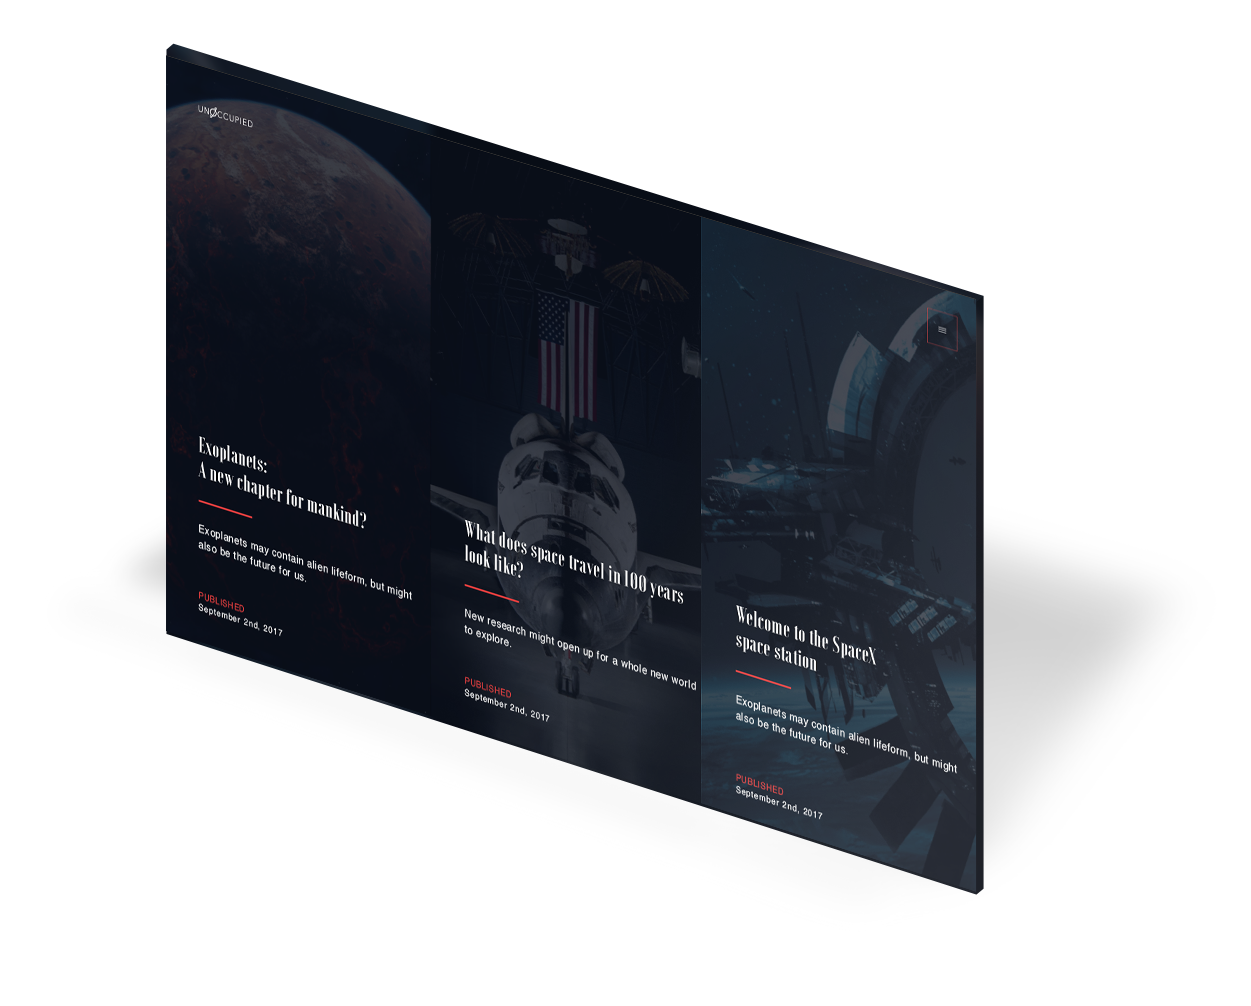
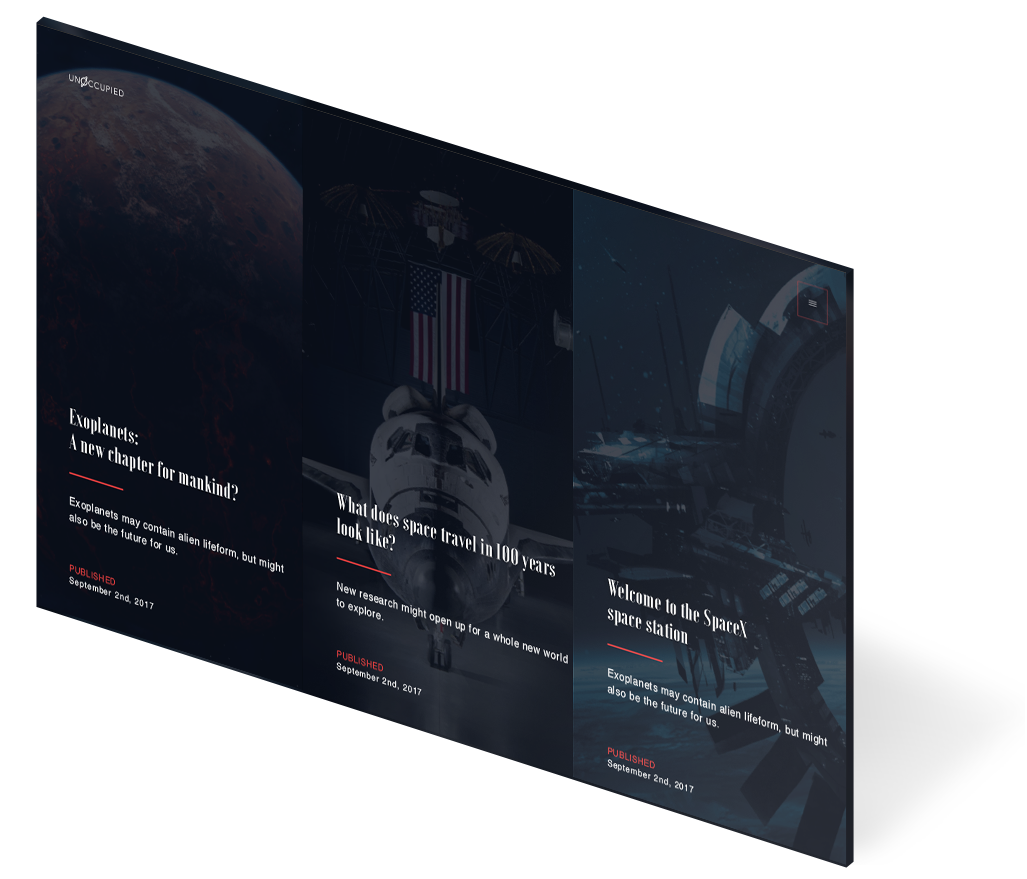
Image drop shadows

diff --git a/index.html b/index.html
@@ -77,7 +77,7 @@
                     <!-- <img data-src="./img/preview1.png" alt=""> -->
                     <!-- <img src="./img/mac-unoccupied.png" alt=""> -->
                     <!-- <img src="./img/nf-perspective.png" alt=""> -->
-                    <img src="./img/nf-perspective2.png" style="margin-top: 30%; width: 100%" alt="">
+                    <img src="./img/nf-perspective2.png" style="margin-top: 30%" alt="">
                     <div class="overlay"></div>
                 </div>
 
@@ -116,7 +116,7 @@
                     <!-- <img src="./img/bodo-large.png" style="margin-top: 15%" alt=""> -->
                     <!-- <img src="./img/bodo-perspective.png" style="margin-top: 10%" alt=""> -->
                     <!-- <img src="./img/unoccupied-perspective.png" style="margin-top: 0" alt=""> -->
-                    <img src="./img/unoccupied-perspective2.png" style="margin-top: 0" alt="">
+                    <img src="./img/unoccupied-perspective2.png" style="margin-top: 20%" alt="">
                     <div class="overlay"></div>
                 </div>
 

diff --git a/js/main.js b/js/main.js
@@ -162,7 +162,7 @@ Array.prototype.forEach.call(projects, function showProjects(el) {
       // reverse: false,
       // duration: window.innerHeight / 1.3
     })
-    .setTween(animatePreview).addTo(controller)
+    .setTween(animatePreview).addTo(controller);
   // .addIndicators()
 
 });
@@ -350,7 +350,7 @@ new ScrollMagic.Scene({
     duration: window.innerHeight / 2
   })
   .setTween(hideH1About)
-  .addTo(controller)
+  .addTo(controller);
 // .addIndicators();
 
 new ScrollMagic.Scene({
